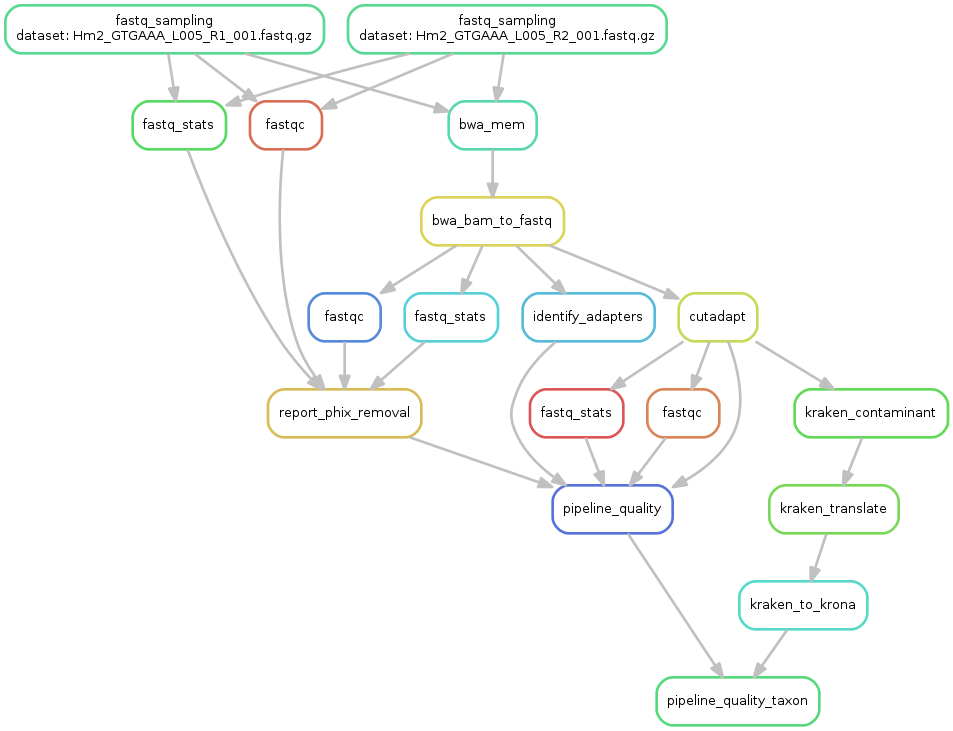
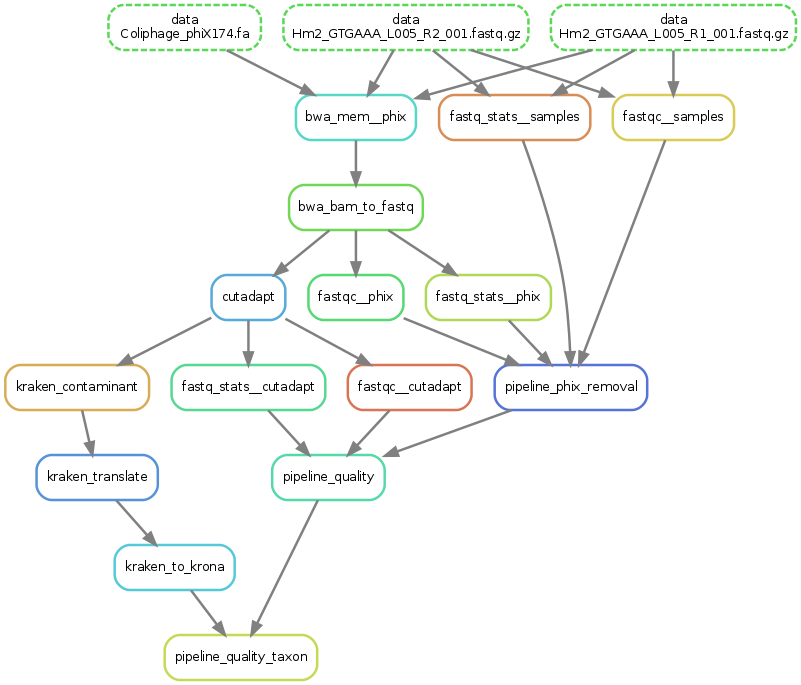
update pipelines (doc)

diff --git a/sequana/pipelines/quality/README.rst b/sequana/pipelines/quality/README.rst
@@ -1,13 +1,14 @@
-:Overview: On top of phix_removal pipeline, remove adapters
-:Input: FastQ raw data from Illumina Sequencer (either paired or not)
+:Overview: Remove phix and adapters rom set of FastQ files
+:Input: FastQ raw data (either paired or single-ended)
 :Output: 
-    - <PROJECT>/cutadapt/<PROJECT>R1.cutadapt.fastq.gz
-    - <PROJECT>/cutadapt/<PROJECT>R2.cutadapt.fastq.gz
+    - report/<PROJECT>_R1_.cutadapt.fastq.gz
+    - report/<PROJECT>_R2_.cutadapt.fastq.gz
 :Config file requirements:
     - samples:file1
     - samples:file2
     - project:
-    - bwa_mem:reference
+    - bwa_phix:reference
+    -
 
 
 Usage
@@ -15,8 +16,9 @@ Usage
 
 ::
 
-    sequana init quality --file1 R1.fastq.gz --file2 R2.fastq.gz
-    python sequana_quality.py
+    sequana --pipeline quality --file1 R1.fastq.gz --file2 R2.fastq.gz --project Quality
+    cd Quality
+    snakemake -s quality -p --stats stats.txt -j 4
 
 
 Requirements
@@ -24,6 +26,7 @@ Requirements
 
 - bwa
 - samtools
+- cutadapt
 
 
 Details

diff --git a/sequana/pipelines/phix_removal/README.rst b/sequana/pipelines/phix_removal/README.rst
@@ -1,22 +1,23 @@
-:Overview: cleanup FastQ raw data from a Phix (known contaminant)
-:Input: FastQ raw data from Illumina Sequencer (either paired or not)
+:Overview: cleanup FastQ raw data from a Phix (known contaminant) using BWA
+:Input: FastQ raw data (paired or single-end)
 :Output: FastQ raw with clean reads (no phix) in ./<PROJECT>/bwa_bam_to_fastq/
-:Config file requirements:
+:Config file requirements:    
     - samples:file1
     - samples:file2
-    - project
-    - bwa_mem:reference
+    - project:
+    - bwa_ref:reference
 
 
 Usage
 ~~~~~~~
 
-::
+Example::
 
-    mkdir analysis
-    cd analysis
-    # EDIT the config.yaml file 
-    snakemake -p --stats stats.txt
+    sequana --pipeline phix_removal --glob "*gz" --project Phix
+    cd Phix
+    snakemake -s phix_removal -p --stats stats.txt
+
+.. note:: Change the config.yaml file if needed 
 
 Requirements
 ~~~~~~~~~~~~~~~~~~

diff --git a/sequana/rules/data/README.rst b/sequana/rules/data/README.rst
@@ -1,0 +1,10 @@
+:Description: Include fastq_sampling rule (updating the config file on the fly)
+    to use a sub-set of the raw data. If not used, the raw data is used as
+    expected. Note, however that without this rule, the data is not shown in the
+    workflow visual representation (DAG).
+:Used by: the pipeline :ref:`pipeline_phix_removal` and children pipelines (e.g.
+    :ref:`pipeline_quality`).
+:Config sections:
+    - fastq_sampling
+:Dependencies:
+    - sequana.fastq_head executable
